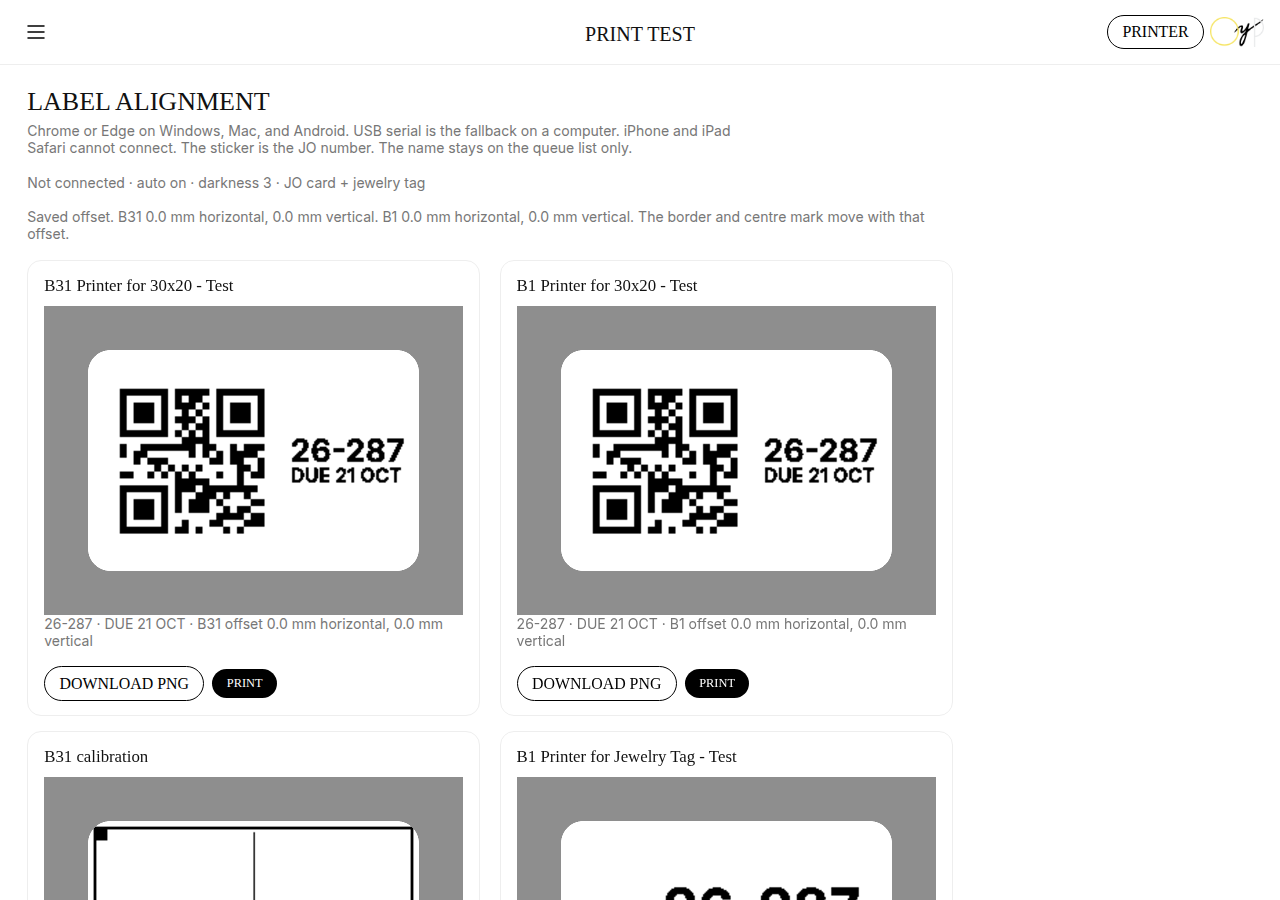
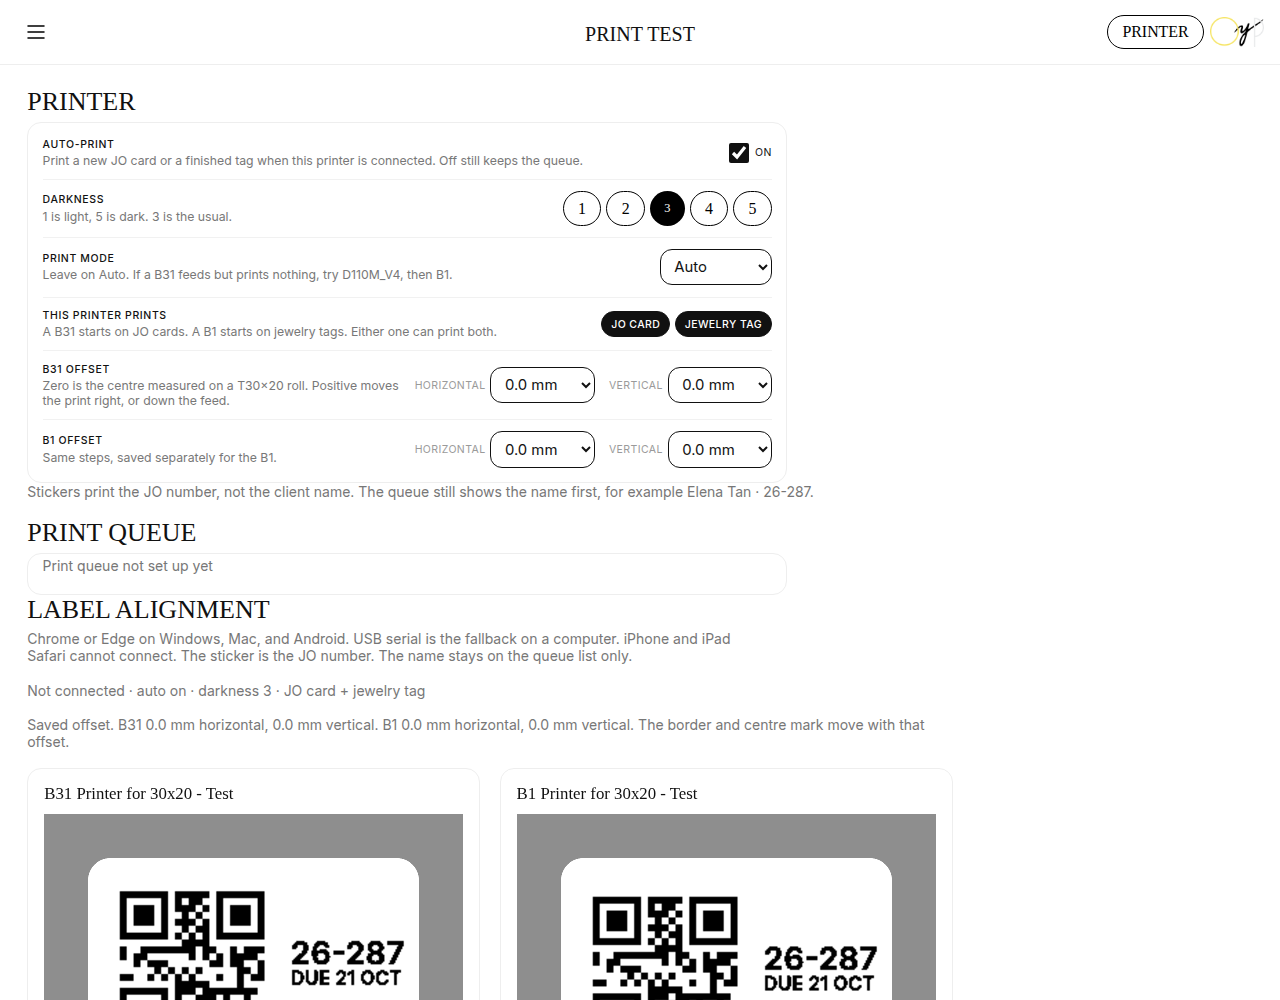
Explain printer connect on Safari and let the queue panel close.
The PRINTER menu names Bluetooth and USB when they exist, and otherwise says to open Chrome or Edge (or that an iPad cannot connect) before Print queue. The queue panel closes from its X, a tap outside, Escape, or PRINTER. Print test leads with the printer and the queue, and each darkness number is a staff pill at least 32 px wide.

diff --git a/print.js b/print.js
@@ -10,7 +10,7 @@ var KEY = 'oypPrint';
 var DEV = 'oypDevice';
 var STALE = 180000;
 var POLL = 15000;
-var state = { client: null, model: '', head: 0, dir: 'top', transport: '', connected: false, timer: 0, pumping: false, busy: {}, open: '', chain: Promise.resolve() };
+var state = { client: null, model: '', head: 0, dir: 'top', transport: '', connected: false, timer: 0, pumping: false, busy: {}, open: '', armUntil: 0, chain: Promise.resolve() };
 var lib = function () { return root.niimbluelib; };
 
 function deviceId() {
@@ -452,6 +452,10 @@ function chipText() {
   if (state.connected) return state.model || 'Printer';
   return 'Printer';
 }
+function connectNote() {
+  if (ios()) return "iPad can't connect a printer. Stickers wait in the print queue.";
+  return 'Open in Chrome or Edge to connect a printer';
+}
 function drawChip() {
   var slot = document.getElementById('printChip');
   if (!slot) return;
@@ -459,11 +463,16 @@ function drawChip() {
   slot.innerHTML = '<span class="oyp-pr"><button type="button" class="pill sm' + (on ? '' : ' outline') + '" id="oypPrBtn" aria-haspopup="menu" aria-expanded="false">' + esc(chipText().toUpperCase()) + '</button><div class="whomenu oyp-pr-menu hidden" id="oypPrMenu"></div></span>';
   var menu = document.getElementById('oypPrMenu');
   var bits = [];
-  if (canBt()) bits.push('<button type="button" data-pr="bluetooth">Bluetooth</button>');
-  if (canSerial()) bits.push('<button type="button" data-pr="serial">USB serial</button>');
+  if (!canBt() && !canSerial()) bits.push('<p class="muted oyp-pr-note" role="note">' + esc(connectNote()) + '</p>');
+  else if (!state.connected) {
+    if (canBt()) bits.push('<button type="button" data-pr="bluetooth">Connect by Bluetooth</button>');
+    if (canSerial()) bits.push('<button type="button" data-pr="serial">Connect by USB</button>');
+  } else {
+    if (canBt()) bits.push('<button type="button" data-pr="bluetooth">Bluetooth</button>');
+    if (canSerial()) bits.push('<button type="button" data-pr="serial">USB serial</button>');
+  }
   if (state.connected) bits.push('<button type="button" data-pr="disconnect">Disconnect</button>');
   bits.push('<button type="button" data-pr="queue">Print queue</button>');
-  if (!bits.length) bits.push('<button type="button" disabled>No Web Bluetooth on this browser</button>');
   menu.innerHTML = bits.join('');
 }
 function toggleMenu(force) {
@@ -472,6 +481,26 @@ function toggleMenu(force) {
   menu.classList.toggle('hidden', !show);
   var btn = document.getElementById('oypPrBtn');
   if (btn) btn.setAttribute('aria-expanded', show ? 'true' : 'false');
+  if (show && btn) {
+    state.armUntil = Date.now() + 400;
+    state.armBox = btn.getBoundingClientRect();
+  } else if (!show) {
+    state.armUntil = 0;
+    state.armBox = null;
+  }
+}
+function armedAt(e) {
+  var b = state.armBox;
+  if (!b || Date.now() >= state.armUntil) return false;
+  return e.clientX >= b.left && e.clientX <= b.right && e.clientY >= b.top && e.clientY <= b.bottom;
+}
+function panelEl() { return document.getElementById('oypPrintPanel'); }
+function panelOpen() { var p = panelEl(); return !!(p && !p.classList.contains('hidden')); }
+function closePanel() { var p = panelEl(); if (p) p.classList.add('hidden'); }
+function openPanel() {
+  var p = ensurePanel();
+  p.classList.remove('hidden');
+  refresh();
 }
 function ensurePanel() {
   var p = document.getElementById('oypPrintPanel');
@@ -479,15 +508,9 @@ function ensurePanel() {
   p = document.createElement('div');
   p.id = 'oypPrintPanel';
   p.className = 'oyp-pr-panel set hidden';
-  p.setAttribute('data-oyp-q', '1');
+  p.innerHTML = '<div class="oyp-pr-bar"><h3 class="lab seth">Print queue</h3><button type="button" class="oyp-pr-x" data-pr="close" aria-label="Close">✕</button></div><div data-oyp-q="1"></div>';
   document.body.appendChild(p);
   return p;
-}
-function togglePanel() {
-  var p = ensurePanel();
-  var show = p.classList.contains('hidden');
-  p.classList.toggle('hidden', !show);
-  if (show) refresh();
 }
 
 function mmSelect(id, value, label) {
@@ -499,8 +522,9 @@ function mmSelect(id, value, label) {
   return html + '</select>';
 }
 function darkSeg(value) {
-  return '<div class="seg" id="prDark" role="group" aria-label="Darkness">' + [1, 2, 3, 4, 5].map(function (n) {
-    return '<button type="button" data-dark="' + n + '"' + (value === n ? ' class="on"' : '') + '>' + n + '</button>';
+  return '<div class="setdays" id="prDark" role="group" aria-label="Darkness">' + [1, 2, 3, 4, 5].map(function (n) {
+    var on = value === n;
+    return '<button type="button" class="pill sm' + (on ? ' on' : ' outline') + '" data-dark="' + n + '">' + n + '</button>';
   }).join('') + '</div>';
 }
 function kindChip(id, on, label) {
@@ -544,7 +568,11 @@ function mountSettings(el) {
   });
   el.querySelectorAll('#prDark button').forEach(function (b) {
     b.onclick = function () {
-      el.querySelectorAll('#prDark button').forEach(function (x) { x.classList.toggle('on', x === b); });
+      el.querySelectorAll('#prDark button').forEach(function (x) {
+        var on = x === b;
+        x.classList.toggle('on', on);
+        x.classList.toggle('outline', !on);
+      });
       persist();
     };
   });
@@ -603,7 +631,7 @@ function css() {
   var base = src ? src.replace(/[^/]*$/, '') : '';
   var link = document.createElement('link');
   link.rel = 'stylesheet';
-  link.href = (base || '') + 'print.css?v=5';
+  link.href = (base || '') + 'print.css?v=6';
   (document.head || document.documentElement).appendChild(link);
 }
 function start() {
@@ -619,21 +647,34 @@ function start() {
   document.addEventListener('click', function (e) {
     var pr = e.target.closest('[data-pr]');
     if (pr) {
+      if (pr.closest('#oypPrMenu') && armedAt(e)) return;
       var act = pr.getAttribute('data-pr');
       toggleMenu(false);
       if (act === 'bluetooth') connect('bluetooth');
       else if (act === 'serial') connect('serial');
       else if (act === 'disconnect') disconnect();
-      else togglePanel();
+      else if (act === 'close') closePanel();
+      else if (act === 'queue') openPanel();
       return;
     }
-    if (e.target.closest('#oypPrBtn')) { toggleMenu(); return; }
+    if (e.target.closest('#oypPrBtn')) {
+      if (armedAt(e)) return;
+      if (panelOpen()) { closePanel(); toggleMenu(false); return; }
+      toggleMenu();
+      return;
+    }
     if (!e.target.closest('#oypPrMenu')) toggleMenu(false);
+    if (panelOpen() && !e.target.closest('#oypPrintPanel')) closePanel();
     var b = e.target.closest('[data-oyp-print]');
     if (b) { printJo(b.getAttribute('data-oyp-print'), b.getAttribute('data-jo'), { reprint: true }); return; }
     var png = e.target.closest('[data-oyp-png]');
     if (png) { download(png.getAttribute('data-oyp-png'), { jo: png.getAttribute('data-jo') }); return; }
     if (e.target.closest('[data-q]')) onQueueClick(e);
+  });
+  document.addEventListener('keydown', function (e) {
+    if (e.key !== 'Escape') return;
+    toggleMenu(false);
+    closePanel();
   });
   document.addEventListener('visibilitychange', function () { if (document.visibilityState === 'visible' && state.connected) pump(); });
 }

diff --git a/sim/print-sim.js b/sim/print-sim.js
@@ -247,8 +247,8 @@ eq(/printQueue:\s*1/.test(app) && !/printQueue/.test(cached), 'printQueue is a c
 eq(!/printMark\s*:\s*1/.test(app) && !/printEnqueue\s*:\s*1/.test(app) && !/printReprint\s*:\s*1/.test(app), 'print writes are not client reads');
 eq(fast.includes('priceJobCost: 1, printQueue: 1') && !fast.includes('dashboard: 1, printQueue'), 'Fast READS gains printQueue and FAST.CACHE does not');
 eq(dash.includes('listUsers: 1, printQueue: 1') && !dash.includes("action !== 'printQueue'"), 'DashCache READS gains printQueue and the dashboard spec does not');
-eq(index.includes('print.js?v=7') && index.includes('print-label.js?v=7') && index.includes('nav.js?v=21') && index.includes('app.js?v=30') && index.includes('settings.js?v=19') && index.includes('print.css?v=5') && index.includes('app.css?v=38') && index.includes('settings.css?v=10'), 'print assets are cache-busted');
-eq(read('nav.js').includes('print-label.js?v=7') && read('nav.js').includes('print.js?v=7') && read('nav.js').includes('menuHtml'), 'the scanner injects the current label renderer');
+eq(index.includes('print.js?v=8') && index.includes('print-label.js?v=7') && index.includes('nav.js?v=21') && index.includes('app.js?v=30') && index.includes('settings.js?v=19') && index.includes('print.css?v=6') && index.includes('app.css?v=38') && index.includes('settings.css?v=10'), 'print assets are cache-busted');
+eq(read('nav.js').includes('print-label.js?v=7') && read('nav.js').includes('print.js?v=8') && read('nav.js').includes('menuHtml'), 'the scanner injects the current label renderer');
 eq(read('print.js').includes('offsetMm') && read('staff/print-test.html').includes('prOff'), 'offsets are saved per model and shown on the print test page');
 eq(read('staff/print-test.html').includes('OYPLabel.preview') && read('print.js').includes('oyp-qprev'), 'print test and the queue preview the sticker, not the printhead');
 const testPage = read('staff/print-test.html'), testCss = read('print.css');
@@ -257,6 +257,9 @@ eq(b31At > 0 && testPage.indexOf('B31 calibration') > b31At && b1Card > testPage
 eq(testCss.includes('grid-template-columns:1fr 1fr') && testCss.includes('.pr-stage') && testCss.includes('justify-content:center') && /max-width:800px/.test(testCss), 'print test is two equal columns and stacks below an iPad portrait');
 eq(testPage.includes('class="top"') && testPage.includes('id="btnMenu"') && testPage.includes('class="logo"') && testPage.indexOf('id="printChip"') < testPage.indexOf('class="logo"') && testPage.includes('app.css?v=38') && testPage.includes('OYPNav.menuHtml'), 'print test uses the staff header, with the printer pill left of the logo');
 eq(read('print.js').includes('Print queue not set up yet') && read('print.js').includes('No stickers waiting') && read('print.js').includes('class="pill sm"') && read('print.js').includes('class="dchip') && read('print.js').includes('class="setp') && read('print.js').includes('class="cn"') && read('print.js').includes('whomenu') && read('print.css').includes(':where(') && !read('print.css').includes('.oyp-pr-btn') && testPage.includes("'dcard'") && testPage.includes("'dtitle'") && testPage.includes('class="setbox" id="printQueue"'), 'print controls use the staff cards, pills, rows, and menu');
+eq(read('print.js').includes('Open in Chrome or Edge to connect a printer') && read('print.js').includes("iPad can't connect a printer. Stickers wait in the print queue.") && read('print.js').includes('Connect by Bluetooth') && read('print.js').includes('Connect by USB') && read('print.js').includes('aria-label="Close"') && read('print.js').includes("e.key !== 'Escape'"), 'Safari sees how to connect, and the queue panel can close');
+eq(testPage.indexOf('<h2>Printer</h2>') < testPage.indexOf('<h2>Print queue</h2>') && testPage.indexOf('<h2>Print queue</h2>') < testPage.indexOf('<h2>Label alignment</h2>'), 'print test leads with printer settings, then the queue, then label alignment');
+eq(read('print.js').includes('id="prDark"') && read('print.css').includes('#prDark .pill.sm{min-width:32px'), 'each darkness number is a staff pill at least 32 px wide');
 eq(read('print.js').includes('labelOpts') && !/client:\s*item\.client/.test(read('print.js')), 'the printer payload builder does not copy the client name');
 
 if (failed) { console.error(failed + ' failed'); process.exit(1); }

diff --git a/print.css b/print.css
@@ -6,7 +6,13 @@
 .topend{display:flex;align-items:center;gap:calc(8px * var(--sp,1))}
 .oyp-pr{position:relative;display:inline-flex;align-items:center;flex:none}
 .oyp-pr .pill{white-space:nowrap}
-.oyp-pr .whomenu{left:auto;right:0;top:calc(100% + 6px);bottom:auto;min-width:210px;z-index:40}
+.oyp-pr .whomenu{left:auto;right:0;top:calc(100% + 6px);bottom:auto;min-width:280px;max-width:calc(100vw - 16px);z-index:40}
+.oyp-pr .whomenu .oyp-pr-note{display:block;margin:0;padding:calc(12px * var(--sp,1)) calc(18px * var(--sp,1));font-family:var(--label,Inter,system-ui,sans-serif);font-size:calc(13px * var(--fs,1));font-weight:500;line-height:1.35;letter-spacing:0;text-transform:none;color:#777;cursor:default}
+.oyp-pr-bar{display:flex;align-items:center;justify-content:space-between;gap:calc(12px * var(--sp,1));padding:calc(8px * var(--sp,1)) 0 calc(2px * var(--sp,1))}
+.oyp-pr-bar .seth{margin:0}
+.oyp-pr-x{width:32px;height:32px;border:1px solid #ddd;border-radius:50%;background:#fff;color:#111;padding:0;line-height:1;font-size:16px;cursor:pointer;flex:none}
+.oyp-pr-x:hover{background:#faf8f1}
+#prDark .pill.sm{min-width:32px;text-align:center}
 .oyp-pr-panel{position:fixed;right:12px;top:64px;width:min(420px,calc(100vw - 24px));max-height:70vh;overflow:auto;background:#fff;border:1px solid #eee;border-radius:calc(14px * var(--rad,1));z-index:40;padding:calc(4px * var(--sp,1)) calc(18px * var(--sp,1));box-shadow:0 8px 24px rgba(0,0,0,.08)}
 .oyp-pr-menu.hidden,.oyp-pr-panel.hidden{display:none}
 

diff --git a/staff/print-test.html b/staff/print-test.html
@@ -8,7 +8,7 @@
 <script src="../design.js?v=6"></script>
 <link rel="stylesheet" href="../app.css?v=38">
 <link rel="stylesheet" href="../settings.css?v=10">
-<link rel="stylesheet" href="../print.css?v=5">
+<link rel="stylesheet" href="../print.css?v=6">
 <link rel="icon" type="image/png" href="../favicon.png"><link rel="apple-touch-icon" href="../apple-touch-icon.png">
 </head><body>
 <header class="top">
@@ -18,21 +18,21 @@
 </header>
 <div id="menu" class="menu hidden"></div>
 <main class="main set pr-page">
+  <h2>Printer</h2>
+  <div id="printSet"></div>
+  <h2>Print queue</h2>
+  <div class="setbox" id="printQueue"></div>
   <h2>Label alignment</h2>
   <p class="muted">Chrome or Edge on Windows, Mac, and Android. USB serial is the fallback on a computer. iPhone and iPad Safari cannot connect. The sticker is the JO number. The name stays on the queue list only.</p>
   <p id="prSum" class="muted"></p>
   <p id="prOff" class="muted"></p>
   <div class="pr-previews" id="prViews"></div>
-  <h2>Printer</h2>
-  <div id="printSet"></div>
-  <h2>Print queue</h2>
-  <div class="setbox" id="printQueue"></div>
 </main>
 <div id="toast" class="toast hidden"></div>
 <script src="../vendor/qrcode.js?v=1"></script>
 <script src="../vendor/niimbluelib-0.47.1.js?v=1"></script>
 <script src="../print-label.js?v=7"></script>
-<script src="../print.js?v=7"></script>
+<script src="../print.js?v=8"></script>
 <script src="../nav.js?v=21"></script>
 <script>
 (function () {

diff --git a/staff/index.html b/staff/index.html
@@ -13,7 +13,7 @@
 <link rel="stylesheet" href="../settings.css?v=10">
 <link rel="stylesheet" href="../production.css?v=7">
 <link rel="stylesheet" href="../consign.css?v=9">
-<link rel="stylesheet" href="../print.css?v=5">
+<link rel="stylesheet" href="../print.css?v=6">
 <link rel="icon" type="image/png" href="../favicon.png"><link rel="apple-touch-icon" href="../apple-touch-icon.png">
 </head><body>
 <header class="top">
@@ -66,7 +66,7 @@
 <script src="../vendor/qrcode.js?v=1"></script>
 <script src="../vendor/niimbluelib-0.47.1.js?v=1"></script>
 <script src="../print-label.js?v=7"></script>
-<script src="../print.js?v=7"></script>
+<script src="../print.js?v=8"></script>
 <script src="../nav.js?v=21"></script>
 <script src="../app.js?v=30"></script>
 </body></html>

diff --git a/nav.js b/nav.js
@@ -80,7 +80,7 @@ if (typeof document !== 'undefined' && document.createElement) {
   src = cs && (cs.src || '');
   var base = src ? src.replace(/[^/]*$/, '') : '';
   if (base && !document.querySelector('script[src*="print.js"]')) {
-    ['vendor/qrcode.js?v=1', 'vendor/niimbluelib-0.47.1.js?v=1', 'print-label.js?v=7', 'print.js?v=7'].forEach(function (rel) {
+    ['vendor/qrcode.js?v=1', 'vendor/niimbluelib-0.47.1.js?v=1', 'print-label.js?v=7', 'print.js?v=8'].forEach(function (rel) {
       var ps = document.createElement('script');
       ps.src = base + rel;
       ps.async = false;
